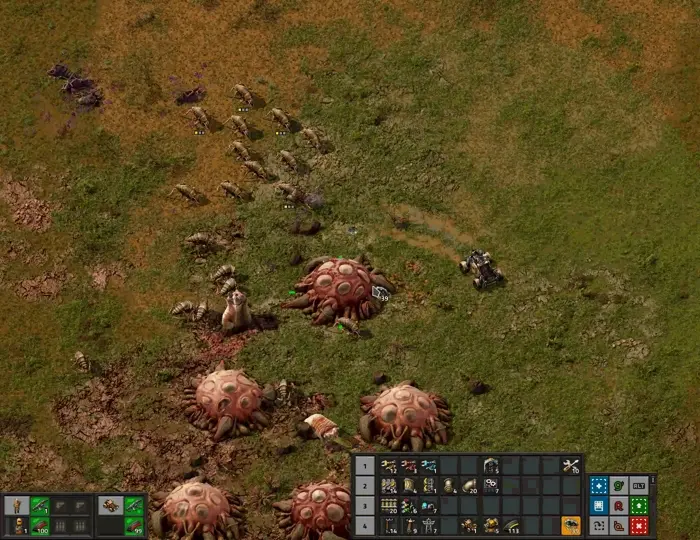
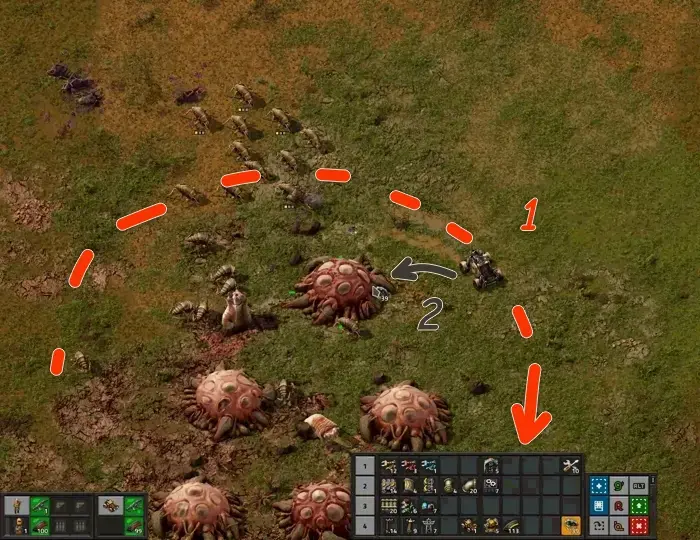
refactored article, improved text

diff --git a/docs/HowToStartNewGame/CombatTactics.md b/docs/HowToStartNewGame/CombatTactics.md
@@ -12,15 +12,13 @@ unlisted: true
 От строительства первых пулемётных турелей с обычными боекомплектами и до массированных артобстрелов всего вокруг. Эффективно защищать свою фабрику и очищать ближайшие территории от кусак дело то не хитрое, если знать куда бежать и чем стрелять. Но с ростом фабрики и изучением новых предметов боевые тактики резко меняются.
 :::
 
-*Factorio* - это не простая [безделушка для старых процессоров](../Additionals/FPSandUPS#необходимое-и-достаточное-условия). Тут автоматизация всего и вся плюс постоянная борьба с местной фауной. Кусаки `!Small biter` и плеваки `!Small spitter`, вместе с загрязнением, не дадут вам соскучиться. Потребуется продуманная оборона, грамотная экспансия, [контроль за распространением загрязнения](./Pollution.md#уменьшение-загрязнения) и поступательное [движение за горизонт](./FactoryDefense.md#глобальная-зачистка-после-запуска-первого-спутника). Готовьтесь к бессонным ночам.
-
-Имеется два основных приёма ведения боя подручными средствам. Первый заключается в стрельбе из оружия, а второй в бросании гранат. Причём использовать эти приёмы можно одновременно. На клавиатуре ⌨ вы двигаетесь и стреляете, а мышкой 🖱 наводитесь на цели и бросаете гранаты `!Grenade`. При этом двигаться нужно всегда и с периодической сменой направления движения. Это затрудняет попадание в вас кислотой от червей `!Worm` и плевак `!Spitter`, которые атакуют на расстоянии. При хаотичном движении ↝ избегайте ходить по тем местам, куда они уже плюнули свою кислоту 💥.
+*Factorio* - это не простая [безделушка для старых процессоров](../Additionals/FPSandUPS#необходимое-и-достаточное-условия). Тут [автоматизация всего и вся](../CircuitNetwork/README.md), плюс постоянная [борьба с местной фауной](./FactoryDefense.md#загрязнение-и-прочие-неприятности). Кусаки `!Small biter` и плеваки `!Small spitter`, вместе с загрязнением, не дадут вам соскучиться. Потребуется [продуманная тактика](./README.md#ранее-планирование), грамотная экспансия, [контроль за распространением загрязнения](./Pollution.md#уменьшение-загрязнения) и поступательное [движение за горизонт](./FactoryDefense.md#глобальная-зачистка-после-запуска-первого-спутника). [Готовьтесь к бессонным ночам](../Additionals/NerdsVsGeeks.md).
 
 Всё ваше вооружение и доступные к нему боеприпасы отображаются в левом нижнем углу экрана (стрелка 1).  Гранаты и экипировку удобно разместить на [панели быстрого доступа](./Quickbar.md#панель-быстрого-доступа) (стрелка 2). Так к гранатам легко дотянутся и использовать в бою. Если взять в руки гранату, то светло-зелёным кругом вокруг игрока будет отображаться возможная дальность броска (стрелка 3).
 
 *![Основы боевых тактик в Factorio](./images/CombatTactics.01.webp)*
 
-Также используем пулемётные турели `Gun turret` в арьергарде. Полезно иметь установленные и заряженные две или три турели, чтобы можно было отбежать назад и передохнуть на случай если дела на передовой пойдут не очень. [Расставлять турели нужно грамотно](./FactoryDefense.md#расстановка-пулемётных-турелей), чтобы каждая турель прикрывала другие. Не оставляйте одиноко стоящие турели, их покусают быстро. Ориентируйтесь на светло-зелёный круг когда устанавливаете новую турель, он показывает зону обстрела.
+Также используем пулемётные турели `Gun turret` в арьергарде. Полезно иметь установленные и заряженные две или три турели, чтобы можно было отбежать назад и передохнуть, на случай если дела на передовой пойдут не очень. [Расставлять турели нужно грамотно](./FactoryDefense.md#расстановка-пулемётных-турелей), чтобы каждая турель прикрывала другие. Не оставляйте одиноко стоящие турели, их покусают быстро. Ориентируйтесь на светло-зелёный круг когда устанавливаете новую турель, он показывает зону обстрела.
 
 *![Расстановка турелей в Factorio](./images/FactoryDefense.02.jpg)*
 
@@ -28,37 +26,45 @@ unlisted: true
 
 *![Расстановка турелей в Factorio](./images/CombatTactics.02.webp)*
 
-Для движения и маневрирования в бою задействуем клавишами `A`, `W`, `S` и `D`. Меняем выбранное оружие клавишей `C`. Нажимать можно несколько раз прокручивая из трёх вариантов. Курсором мыши наводимся на цель и стреляем пробелом. Гранаты бросаем правой кнопкой мыши куда указывает курсор.
+Можно добавить стен `Wall` к фортификации и усилить оборону, но упорствовать не следует. Выстраивание сильной линии обороны замедляет ваш прогресс и тратит ресурсы. Лучше пройдитесь по местам, куда дошло загрязнение и приберитесь там дабы нивелировать угрозу нападения. Но играя с усиленной местной фауной не всегда получиться действовать напористо и какая-то фортификация потребуется. Расставляйте стены правильно, чтобы турели простреливали также и некоторое расстояние перед стенами. Там будут скапливаться нападающие кусаки и грызть вашу фортецию. Пример того, как защищающая турель расположена не правильно:
+
+*![Расстановка турелей в Factorio](./images/FactoryDefense.03.jpg)*
+
+## Беги, стреляй, бросай
+
+Имеется два основных приёма ведения боя подручными средствам. Первый заключается в стрельбе из оружия, а второй в бросании гранат. Причём использовать эти приёмы можно одновременно. На клавиатуре ⌨ вы двигаетесь и стреляете, а мышкой 🖱 наводитесь на цели и бросаете гранаты `!Grenade`. При этом двигаться нужно всегда и с периодической сменой направления движения. Это затрудняет попадание в вас кислотой от червей `!Worm` и плевак `!Spitter`, которые атакуют на расстоянии. При хаотичном движении ↝ избегайте ходить по тем местам, куда они уже плюнули свою кислоту 💥.
+
+Для движения и маневрирования в бою задействуем клавишами `A`, `W`, `S` и `D`. Меняем выбранное оружие клавишей `C`. Нажимать можно несколько раз прокручивая из трёх вариантов. Курсором мыши наводимся на цель и стреляем пробелом, клавиша `Space`. Гранаты бросаем правой кнопкой мыши туда, куда указывает курсор.
 
 Гранаты падают на место не сразу, им требуется некоторое время для полёта, а посему крупные кусаки могут успеть отбежать. Учитесь стрелять и бросать гранаты одновременно, вместе эти два игровых приёма несут огромный урон всему. Особенно если научиться бросать гранаты с упреждением на толпу кусак, так как гранаты бьют по площади.
 
 В самом начале игры у вас ничего хорошего не будет. Голый пистолет `!Pistol` которым едва ли можно отстреляться от нескольких кусак `!Small biter`. Ваша задача исследовать первую и вторую военную промышленность `Military`, которые дадут вам пистолет-пулемёт `Submachine gun`, бронебойные патроны `Piercing rounds magazine` и гранаты `Grenade`. Также открываем пулемётные турели `Gun turret`, они хорошо работают по ульям. Все эти исследования стоят не дорого и открываются довольно быстро. Простую броню `Light armor` можно произвести сразу, а тяжёлая броня `Heavy armor` откроется несколько позже. Всего этого будет достаточно для [первого выходы с базы](./FactoryDefense.md#первый-выход-с-базы-для-освоения-нефтяного-месторождения) и даже для [последующей экспансии](./FactoryDefense.md#вторая-экспансия-или-игра-до-запуска-первого-спутника). На настройках игровой карты, где местная фауна сильно кусачая, например *Мир Смерти* (*Death World*), стоит обзавестись дронами защитниками `Defender`, которые отлично защищают игрока от нападающей местной фауны.
 
-Амуниция и предметы из этих исследований позволят вам использовать боевые тактики, а не просто бегать хаотично вокруг ульев и что-то пытаться делать полезного.
-
 ## Основная боевая тактика
 
 Самая простая боевая тактика базируется на вышеописанных боевых приёмах. *Беги, стреляй и бросай*, плюс парочка дополнительных фич. Тактику можно использовать всегда, главное чтобы были гранаты и пулемётные турели с достаточной амуницией. Алгоритм зачистки кусачих ульев прост и состоит из трёх шагов:
 
-1. **Прикрываем тыл**. При подходе к ульям выставляем несколько турелей в безопасной близости и заправляем их амуницией. Достаточно 30-50 обычных патронов `Firearm magazine` на турель. Турели помогут справиться с уже родившимися кусаками и прикроют в случае экстренного отступления.
-2. **Занимаемся червями**. Если имеются дроны защитники `Defender`, то выпускаем их максимально возможное количество. Берём в руки имеющиеся гранаты и идём в бой. Отстреливаем нападающих кусак `!Biter`, а гранаты кидаем на червей `!Worm`, так как они не дают установить турели.
+1. **Прикрываем тыл**. При подходе к ульям выставляем несколько турелей в безопасной близости и заправляем их амуницией. Достаточно 30-50 обычных патронов `Firearm magazine` на турель. Турели помогут справиться с уже родившимися кусаками, которые ринутся на вас, а также прикроют в случае экстренного отступления.
+2. **Занимаемся червями**. Если имеются дроны защитники `Defender`, то выпускаем их максимально возможное количество. Берём в руки имеющиеся гранаты `Grenade` и идём в бой. Отстреливаем нападающих кусак `!Biter`, а гранаты кидаем на червей `!Worm`, так как они не дают установить турели.
 3. **Занимаемся ульями**. Когда остались только улья `!Biter spawner` `!Spitter spawner`, выставляем пулемётные турели `Gun turret` по близости и защищаем их от всего что шевелится. Турели сначала стреляют по ульям, а потом по кусакам, поэтому защищаем турели самостоятельно от возрождающейся местной фауны.
 
 ![Зачищаем улья в Factorio](./images/CombatTactics.03.webp)
 
-В случае если ульев и червей много, действуем поэтапно. Выносим часть червей, потом часть оказавшихся беззащитными улья, потом повторяем. Так будем продвигаться вперёд, расставляя пулемётные турели.
+В случае если ульев и червей много, действуем поэтапно. Выносим часть червей, потом оказавшихся беззащитными улья, потом повторяем. Так будем продвигаться вперёд, расставляя пулемётные турели.
 
 ## Автомобильная боевая тактика
 
 [Первая экспансия](./FactoryDefense.md#первый-выход-с-базы-для-освоения-нефтяного-месторождения) нужна для [разработки месторождения нефти](../OilRefining/README.md#осваиваем-первое-нефтяное-месторождение) `Crude oil`. К этому моменту у вас появится автомобиль `Car`, который используют чтобы подъехать к ульям, высадиться поодаль и начать воплощать вышеописанный алгоритм на поле боя. Однако, автомобиль является довольно быстро движущимся средством наделённым возможностью стрелять. Сила огня из автомобиля меньше чем у пулемётной турели, а посему заправлять его следует бронебойными патронами `Piercing rounds magazine`. Зато можно бросаться гранатами прямо на ходу, что даёт новую боевую тактику.
 
-Суть заключается в том, чтобы сломя голову кружить на автомобиле вокруг ульев и закидывать тамошнее гранатами по периметру. При этом не забывая отстреливать выбегающих под колёса кусак. Некоторых мелких можно и задавить. Выставлять пулемётные турели в арьергарде смысла нет, так как на автомобиле можно быстро сбежать от проблем. Также использовать роботов защитников смысла нет, они инертны и могут улететь далеко-далеко.
+Суть заключается в том, чтобы сломя голову кружить на автомобиле вокруг ульев (1) и закидывать тамошнее гранатами по периметру (2). При этом не забывая отстреливать выбегающих под колёса кусак. Некоторых мелких можно и задавить.
 
 ![Зачищаем улья в Factorio](./images/CombatTactics.04.webp)
 
+Выставлять пулемётные турели в арьергарде смысла нет, так как на автомобиле можно быстро сбежать от проблем. Использовать роботов защитников тоже смысла нет, они инертны и могут улететь далеко-далеко при разворачивающемся автомобиле.
+
 Тактика сия мало пригодная, так как требует большой ловкости в управлении. Также горемычна большим расходом гранат и патронов, которых долго производить. Да и малейшие преграды, вроде деревьев, скал и камней приведут к потере автомобиля и попадания в большую компанию голодных кусак. К тому же, неудачно брошенная граната наносит ущерб и автомобилю.
 
-Подобная тактика ведения боя раскрывается немного позже, при наличии отравляющих гранат `Poison capsule`, так как отравляющие газы не проникают в автомобиль. То есть можно травить всё вокруг и при этом самому дышать свободно, главное не выходить из таксо.
+Однако, возможность кидать гранаты из автомобиля раскрывается немного позже, при наличии отравляющих гранат `Poison capsule`. Отравляющие газы не проникают в автомобиль, то есть можно травить всё вокруг и при этом самому дышать свободно, главное не выходить из таксо. Отравляющие гранаты наносят большой урон червям и прорежают нападающую местную фауну.
 
 ![Зачищаем улья в Factorio](./images/CombatTactics.05.webp)
 
@@ -68,7 +74,7 @@ unlisted: true
 
 Дроны приманки `Distractor` неподвижны и слабы и может показаться что они бесполезны. Кусаки их выносят элементарно, особенно средние `!Medium biter` и крупные `!Biter`. На самом деле их потенциал раскрывается вместе с отравляющими гранатами `Poison capsule`, которые хорошо выносят червей `Worm`.
 
-Суть её мало чем отличается от основной боевой тактики. Также устанавливаем пулемётные турели в арьергарде для прикрытия. Также можно выпустить дронов защитников `Defender`, если всё сложно. Далее, закидываем улья отравляющими гранатами `!Poison capsule`, которые хорошо работают против червей и против местной фауны. Позже, когда с червями вопрос будет решён, запускаем дронов приманки `!Distractor`, которые будут работать и против ульев.
+Суть такой тактики мало чем отличается от основной боевой тактики. Также устанавливаем пулемётные турели в арьергарде для прикрытия. Также можно выпустить дронов защитников `Defender`, если всё сложно. Далее, закидываем улья отравляющими гранатами `!Poison capsule`, которые хорошо работают против червей и против местной фауны. Позже, когда с червями вопрос будет решён, запускаем дронов приманки `!Distractor`, которые будут работать и против ульев.
 
 ![Зачищаем улья в Factorio](./images/CombatTactics.06.webp)
 
@@ -76,9 +82,10 @@ unlisted: true
 
 ## Танки
 
-Танки `Tank` сильно улучшили по сравнению с прошлыми версиями игры *Factorio*. Теперь они имеют сетку для оборудования, что позволяет использовать персональную лазерную защиту `Personal laser defense` и ремонтных дронов `Construction robot`. А также ими можно управлять дистанционно.
+Танки `Tank` сильно улучшили по сравнению с прошлыми версиями игры. Теперь они имеют сетку для оборудования, что позволяет использовать персональную лазерную защиту `Personal laser defense` и ремонтных дронов `Construction robot`. У танка нет радара, а значить дистанционно управлять им не получится (криворукие чехи забаговали игру, ну сколько можно, с паукотроном таких проблем нэма). Но больший потенцевал обнаруживается если самому сесть в танк имея экипированную силовую броню `Power armor` или лучше.
 
 ## Паукотроны
 
+`Spidertron`
 TBD
 
